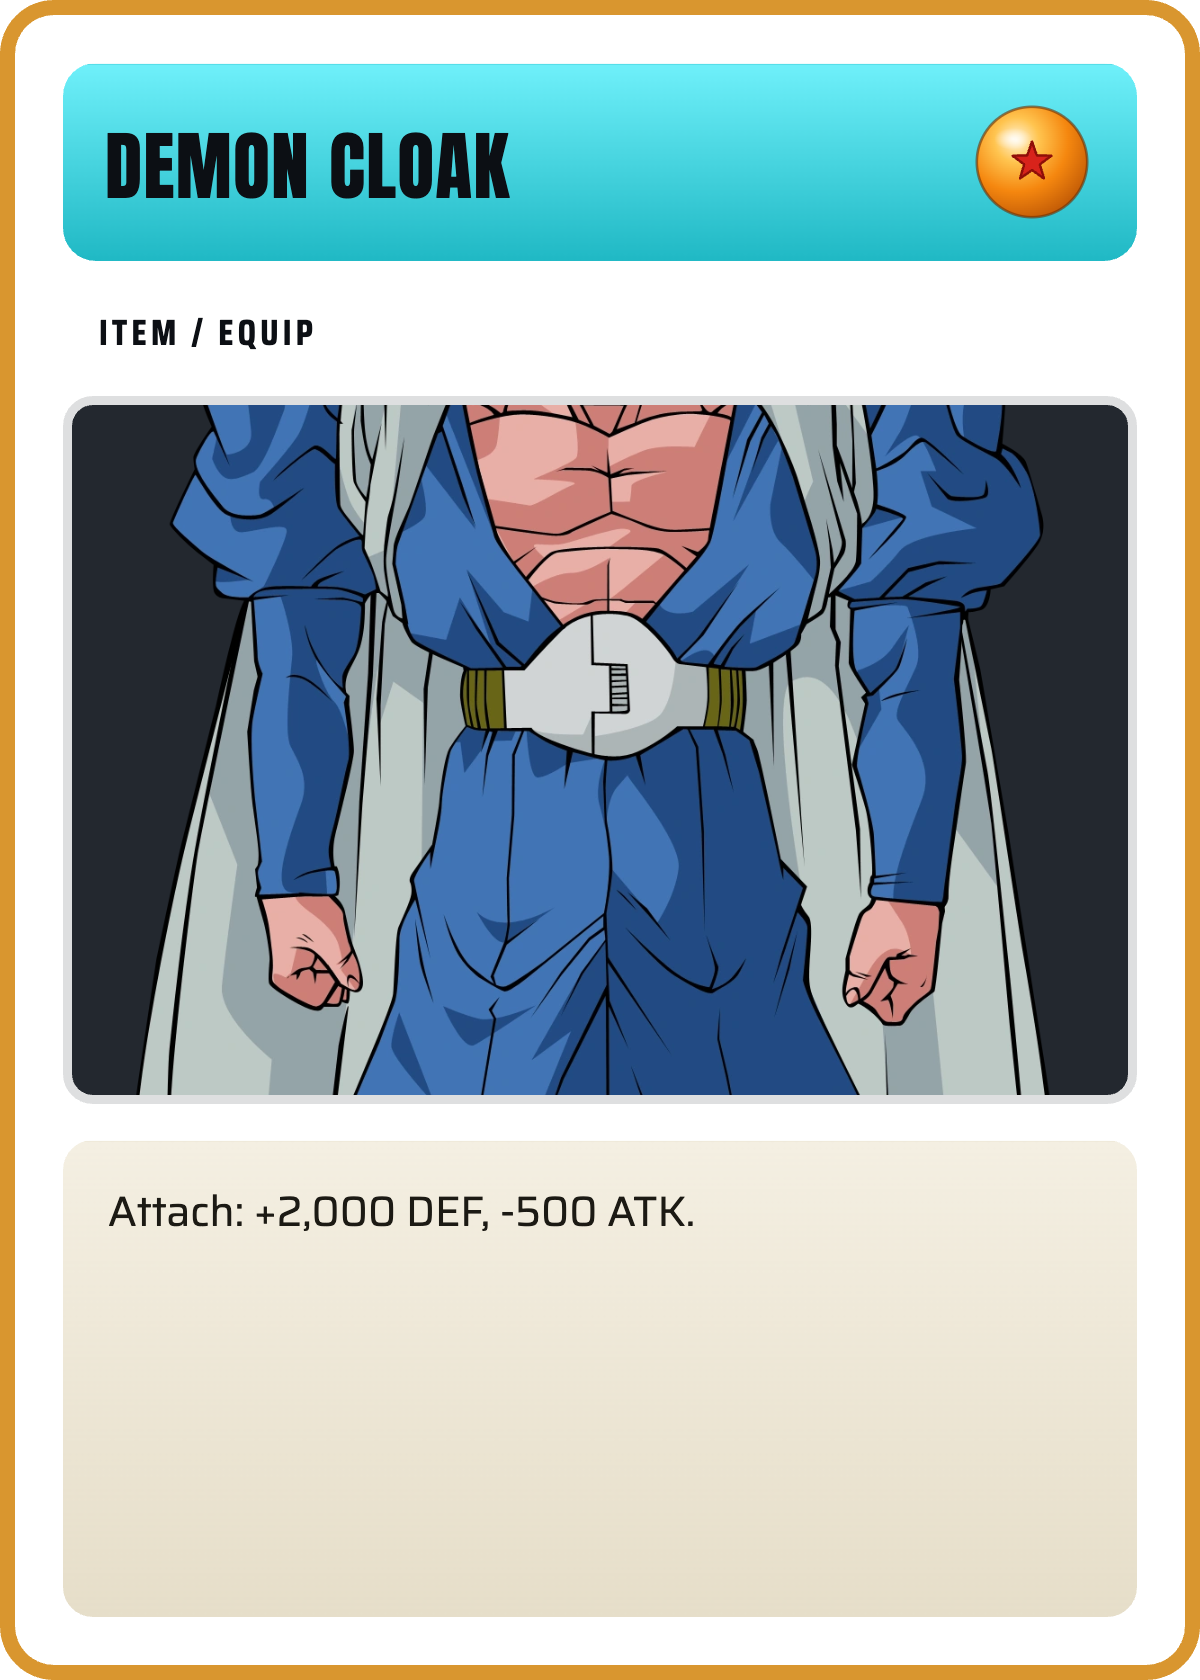
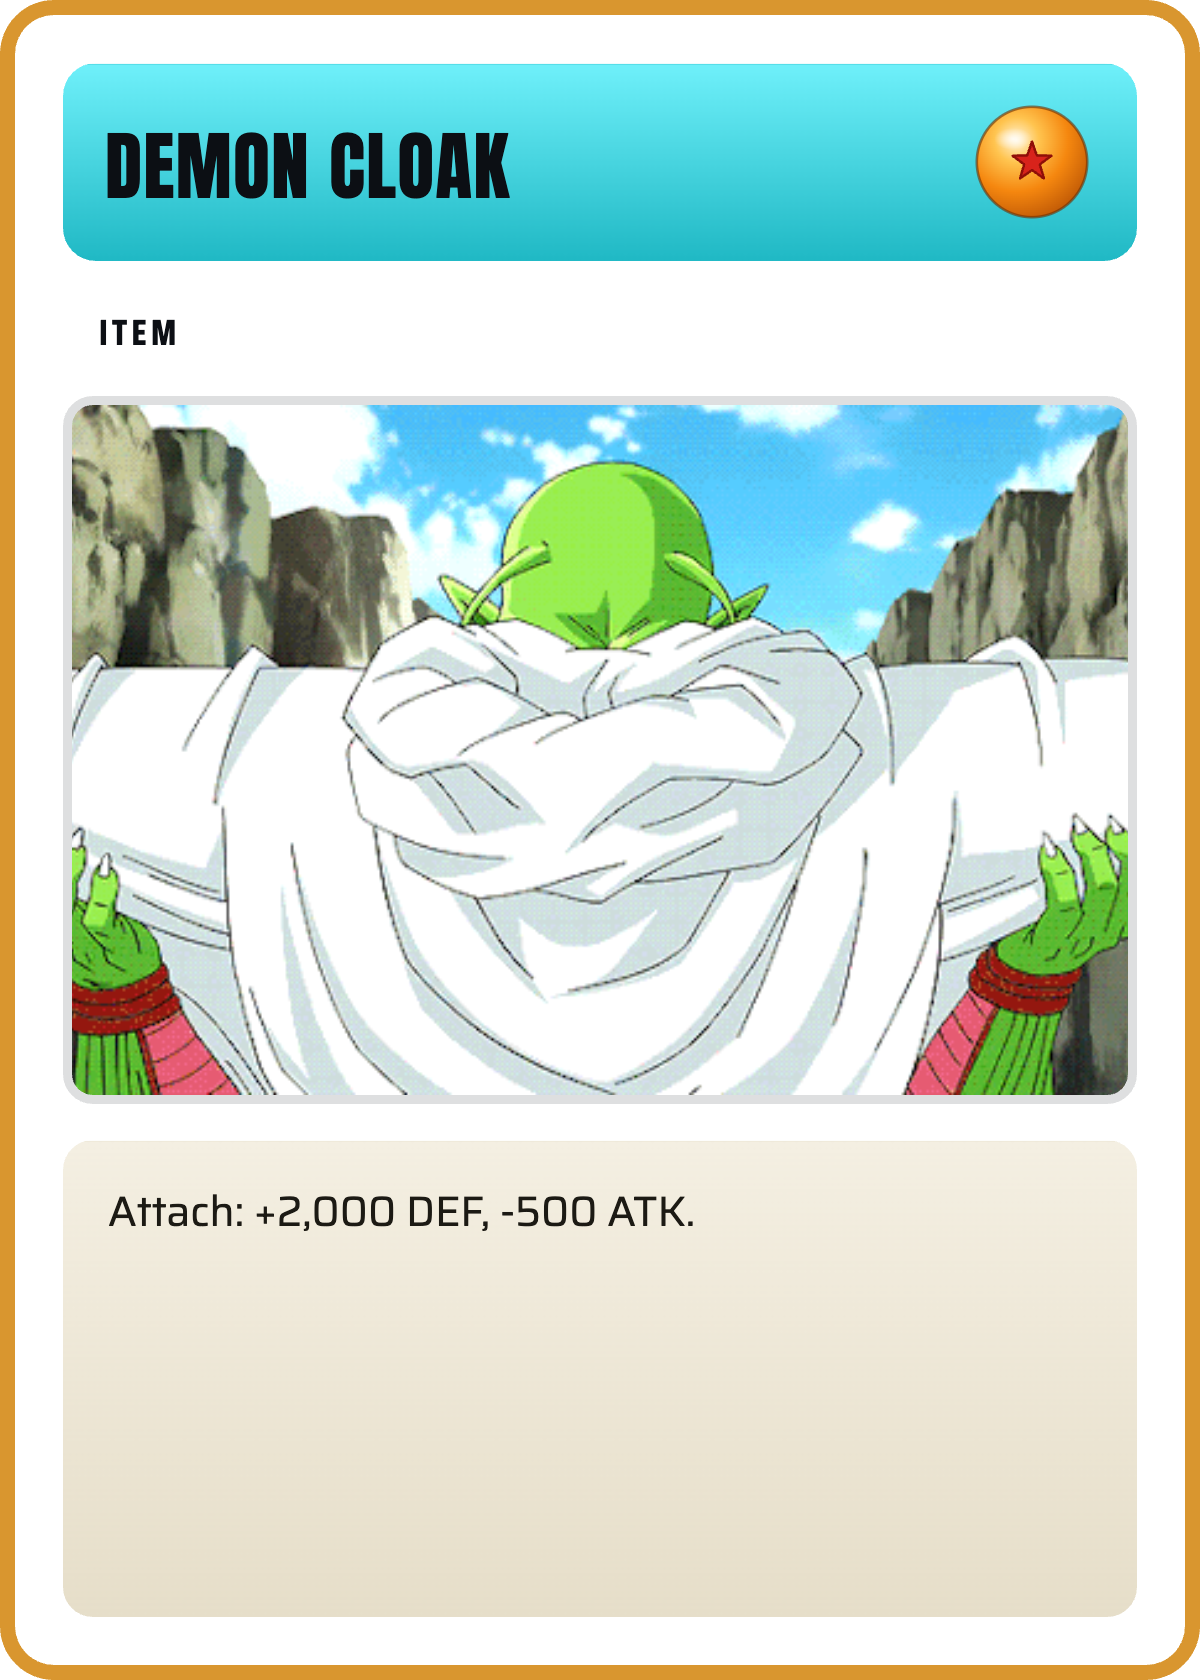
Allow one retreat per active slot per turn, update Demon Cloak art
Retreat was gated by a single per-player flag, so using it on one
active slot blocked the other slot from retreating too. Now each
active slot can retreat once per turn independently; whichever fighter
gets promoted in from the bench inherits cannotRetreatThisTurn so it
can't immediately retreat back out (cleared at end of turn like the
existing Frieza-stun use of that flag).

Also bump the service worker cache version so returning players get
the updated Demon Cloak art instead of the stale cached image.

diff --git a/src/lib/engine/engine.ts b/src/lib/engine/engine.ts
@@ -42,7 +42,6 @@ export function applyIntent(state: GameState, intent: Intent): GameState {
         nextPlayerState.turnNumber = nextPlayerState.turnNumber + 1;
         nextPlayerState.kiMax = Math.min(nextPlayerState.turnNumber, 8);
         nextPlayerState.kiCurrent = nextPlayerState.kiMax;
-        nextPlayerState.retreatUsedThisTurn = false;
         // Clear attacked flags and summoning sickness for next player's fighters
         nextPlayerState.actives = nextPlayerState.actives.map(f => {
           if (!f) return null;
@@ -312,7 +311,6 @@ export function applyIntent(state: GameState, intent: Intent): GameState {
     case 'retreat': {
       if (s.phase !== 'main1') throw new Error('Can only retreat in Main Phase 1');
       const player = { ...s.players[tp] };
-      if (player.retreatUsedThisTurn) throw new Error('Already retreated this turn');
       if (player.kiCurrent < 1) throw new Error('Not enough Ki');
       const active = player.actives[intent.activeIndex];
       const bench = player.bench[intent.benchIndex];
@@ -320,10 +318,11 @@ export function applyIntent(state: GameState, intent: Intent): GameState {
       if (active.cannotRetreatThisTurn) throw new Error('Fighter cannot retreat this turn');
 
       player.kiCurrent -= 1;
-      player.retreatUsedThisTurn = true;
       const newActives = [...player.actives] as typeof player.actives;
       const newBench = [...player.bench] as typeof player.bench;
-      newActives[intent.activeIndex] = bench;
+      // The fighter coming in off the bench takes over the slot's one retreat for
+      // the turn — it can't immediately retreat back out (cleared at end of turn).
+      newActives[intent.activeIndex] = { ...bench, cannotRetreatThisTurn: true };
       newBench[intent.benchIndex] = active;
       player.actives = newActives;
       player.bench = newBench;

diff --git a/src/lib/engine/legalMoves.ts b/src/lib/engine/legalMoves.ts
@@ -171,8 +171,9 @@ export function legalMoves(state: GameState, player: PlayerId): Intent[] {
         moves.push({ type: 'play_field', cardId });
       }
 
-      // Retreat (Main 1 only)
-      if (state.phase === 'main1' && !ps.retreatUsedThisTurn && ps.kiCurrent >= 1) {
+      // Retreat (Main 1 only) — one retreat per active slot per turn, enforced via
+      // cannotRetreatThisTurn on whichever fighter currently occupies the slot.
+      if (state.phase === 'main1' && ps.kiCurrent >= 1) {
         for (let ai = 0; ai < ps.actives.length; ai++) {
           const af = ps.actives[ai];
           if (!af) continue;

diff --git a/src/lib/mockState.ts b/src/lib/mockState.ts
@@ -82,7 +82,6 @@ const p1: PlayerState = {
   piles: { hero: [], item: [] },
   actives: [vegeta, broly],
   bench: [bardock, null],
-  retreatUsedThisTurn: false,
   turnNumber: 5,
   friendlySaiyanKoedThisGame: false,
   activeBuuCounts: [0, 0],
@@ -99,7 +98,6 @@ const p2: PlayerState = {
   piles: { hero: [], item: [] },
   actives: [piccolo, nail],
   bench: [dende, null],
-  retreatUsedThisTurn: false,
   turnNumber: 4,
   friendlySaiyanKoedThisGame: false,
   activeBuuCounts: [0, 0],

diff --git a/src/lib/engine/types.ts b/src/lib/engine/types.ts
@@ -32,7 +32,6 @@ export interface PlayerState {
   piles: { hero: string[]; item: string[] };
   actives: (FighterInstance | null)[];
   bench: (FighterInstance | null)[];
-  retreatUsedThisTurn: boolean;
   turnNumber: number; // this player's own turn count (for Ki curve)
   friendlySaiyanKoedThisGame: boolean; // for Nappa Rampage
   activeBuuCounts: [number, number]; // Buu evolve-chain depth per active slot; resets to 0 when the slot empties via KO

diff --git a/src/lib/engine/__tests__/aiSearch.test.ts b/src/lib/engine/__tests__/aiSearch.test.ts
@@ -15,7 +15,6 @@ function makeEmptyPlayer(deckId: string): PlayerState {
     piles: { hero: [], item: [] },
     actives: [null, null],
     bench: [null, null],
-    retreatUsedThisTurn: false,
     turnNumber: 5,
     friendlySaiyanKoedThisGame: false,
     activeBuuCounts: [0, 0],

diff --git a/src/lib/engine/__tests__/engine.test.ts b/src/lib/engine/__tests__/engine.test.ts
@@ -15,7 +15,6 @@ function makeEmptyPlayer(deckId: string): PlayerState {
     piles: { hero: [], item: [] },
     actives: [null, null],
     bench: [null, null],
-    retreatUsedThisTurn: false,
     turnNumber: 1,
     friendlySaiyanKoedThisGame: false,
     activeBuuCounts: [0, 0],

diff --git a/src/lib/engine/setup.ts b/src/lib/engine/setup.ts
@@ -67,7 +67,6 @@ export function createInitialState(
     piles,
     actives: [null, null],
     bench: [null, null],
-    retreatUsedThisTurn: false,
     turnNumber: 0,
     friendlySaiyanKoedThisGame: false,
     activeBuuCounts: [0, 0],

diff --git a/public/sw.js b/public/sw.js
@@ -1,4 +1,4 @@
-const CACHE_NAME = 'z-battle-v4';
+const CACHE_NAME = 'z-battle-v5';
 
 self.addEventListener('install', (event) => {
   self.skipWaiting();
